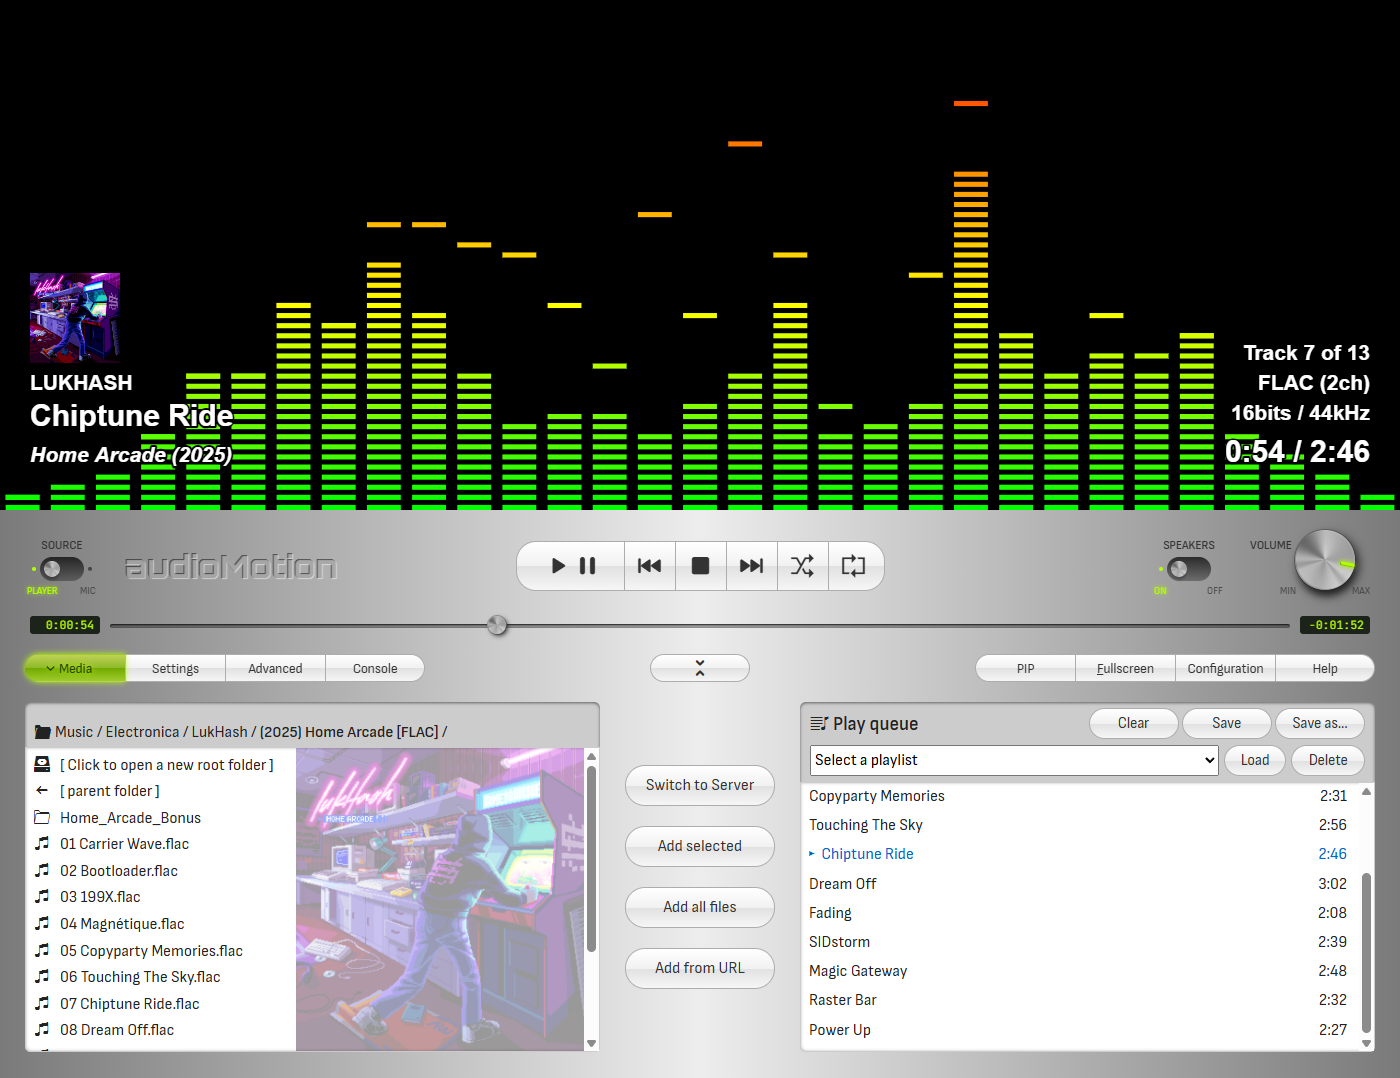
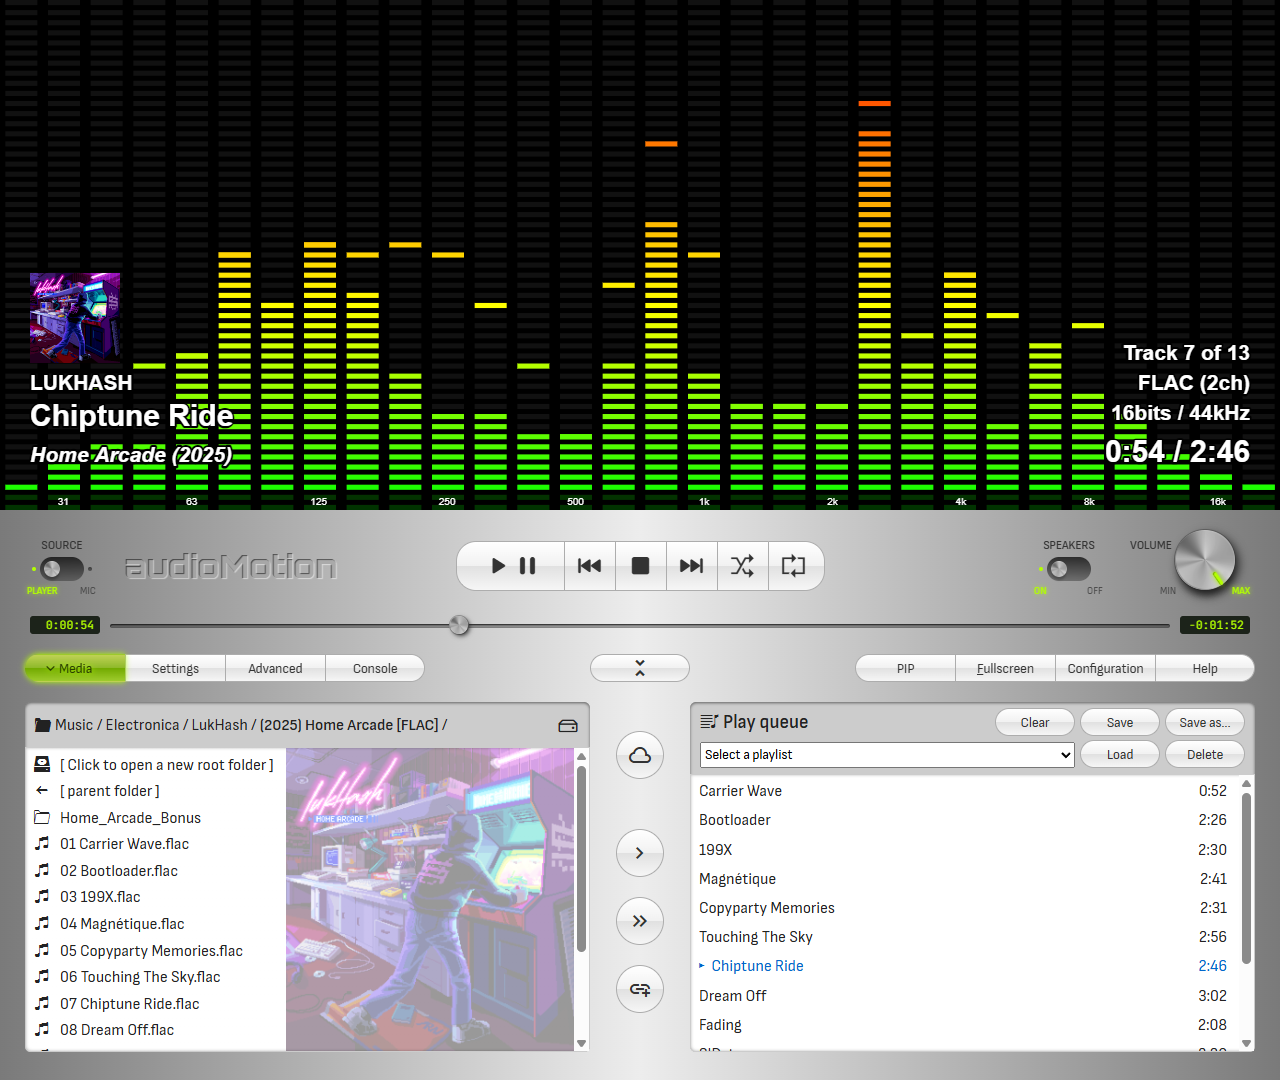
update users manual (wip)

Changed region(s): [[0.0, 0.0918, 1.0, 0.9796], [0.5, 0.1224, 0.5312, 0.1531], [0.375, 0.2755, 0.4062, 0.3061]]

diff --git a/docs/styles.css b/docs/styles.css
@@ -15,14 +15,14 @@
 	--sidebar-name-font-family: Orbitron, var(--base-font-family);
 	--sidebar-name-font-weight: 900;
 
-	--col-1: 2%;
-	--col-2: 21.4%;
+	--col-1: 2.3%;
+	--col-2: 21.5%;
 	--col-3: 40.8%;
 	--col-4: 60%;
-	--col-5: 79.5%;
-	--row-1: 14.331%;
-	--row-2: 29%;
-	--row-3: 44.586%;
+	--col-5: 79%;
+	--row-1: 15%;
+	--row-2: 30%;
+	--row-3: 45%;
 	--row-4: 61%;
 	--row-5: 76.5%;
 }
@@ -109,7 +109,7 @@ p ~ .table-wrapper table {
 
 .advanced-panel,
 .settings-panel {
-	aspect-ratio: 1400/440;
+	aspect-ratio: 1280/440;
 	background-size: contain;
 	line-height: 0;
 	margin: 0 auto;
@@ -221,7 +221,7 @@ p ~ .table-wrapper table {
 	--left: var(--col-4);
 	--top: var(--row-5);
 }
-.active.highlight-effects {
+.active.highlight-display {
 	--height: 28%;
 	--left: var(--col-5);
 	--top: var(--row-1);

diff --git a/docs/users-manual.md b/docs/users-manual.md
@@ -15,7 +15,7 @@ Toggles between using the app's own media player or your microphone as the audio
 If your sound card and operating system support *Stereo mix* mode, it should also appear as an input device option when you set the Source to **MIC.**<br>
 *Stereo mix* allows audioMotion to receive audio generated by any program running in your PC.
 
-?> When Source is set to **MIC**, output to the speakers is automatically turned off to prevent feedback loop. (See [Speakers and Volume](#speakers-and-volume))
+?> When Source is set to **MIC**, output to the speakers is automatically turned off to prevent feedback loop. If you're using headphones you can safely turn it back on, in order to hear the microphone audio. (See [Speakers and Volume](#speakers-and-volume))
 
 ### Player controls
 
@@ -40,10 +40,7 @@ You can drag the progress bar cursor to fast forward or rewind, or click anywher
 
 <img src="img/UI_volume.png" class="img-right">
 
-The **Speakers** switch enables or disables audio output to your speakers or headphones.
-
-When [Source](#source-selection) is switched to MIC, Speakers are automatically turned off to prevent audio feedback loop.
-If you're using headphones you can safely turn it on, in order to hear the input audio.
+The **Speakers** switch enables or disables audio output to your speakers or headphones. Setting it to OFF prevents feedback loops from the microphone, for example (see [Source selection](#source-selection)).
 
 Hover the mouse over the **Volume** knob and use the **mouse wheel** to turn the volume up or down (if the scroll direction doesn't feel natural to you, invert its behavior in Configuration > General settings).
 
@@ -91,23 +88,23 @@ The Media Panel is comprised of the **File Explorer** on the left side, the acti
 
 The **File Explorer** allows you to navigate through your media folders and files.
 
-!> Access to your device is provided to the app by the [File System Access API](https://caniuse.com/native-filesystem-api),
-which is currently **only implemented on Chromium-based browsers** (e.g., Chrome, Opera and Edge).
+!> Access to files in your device is provided by the [File System Access API](https://caniuse.com/native-filesystem-api),
+which is currently **implemented only on Chromium-based browsers** (e.g., Chrome, Opera and Edge).
 On **Brave browser** it needs to be enabled in `chrome://flags/#file-system-access-api` (copy and paste it in the address bar).
 
 **Double-click** a file to quickly add it to the play queue. It will also start playing if the player is currently stopped.
 
-Hold **Ctrl** and click to select multiple files, or **Shift** + click to select a range of files.
+Hold **Ctrl** and click to select multiple files, or **Shift** + click to select a range of contiguous files.
 
 You can then **drag and drop** the selected files into the play queue, or use the action buttons:
 
 | button | action |
 |:------:|:-------|
-**Switch to<br>Server / Device** | Switches between browsing folders on your local device or the songs hosted on the app server
-**Add selected**  | Add currently selected files in the file explorer to the play queue
-**Add all files** | Add all files in the current folder to the play queue
-**Add from URL**  | Load a remote audio file or stream from an URL
-**Open file**     | Open and play a single media file from your device<br>*(Only displayed on browsers with no support for the File System Access API)*
+![btn-toggle-mode](img/button-toggle-mode.gif) | Switch between browsing folders on your local device or hosted on the app server
+![btn-add-selected](img/button-add-selected.png)  | Add currently selected files in the file explorer to the play queue
+![btn-add-all-files](img/button-add-all-files.png) | Add all files in the current folder to the play queue
+![btn-add-url](img/button-add-url.png)  | Add a remote audio file or stream from an URL
+![btn-file-upload](img/button-file-upload.png)     | Open and play a single media file from your device<br>*(Only displayed if the browser/device does NOT support the File System Access API)*
 
 ?> The first image found in the current folder will be shown in the background of the file explorer, with precedence given to filenames containing the words *cover*,
 *folder* or *front* (in this order).
@@ -116,14 +113,15 @@ You can then **drag and drop** the selected files into the play queue, or use th
 
 **Double-click** a queued song to play it.
 
-Drag and drop songs to reorder them inside the queue. Hold **Ctrl** and click to select multiple files, or **Shift** + click to select a range.
-Press **Delete** (*Backspace* on Mac) to remove selected songs from the queue.
+Click a queue entry to select it (use Ctrl/Shift to select multiple files). Drag-and-drop selected entries to reorder them inside the queue.
+
+Press **Delete** (*Backspace* on Mac) to remove selected entries from the queue.
 
 Click the **Clear** button to clear the play queue.
 
-The contents of the play queue are automatically restored the next time you open audioMotion. You can disable this feature in [Config - General settings](#general-settings).
+The play queue is automatically restored the next time you open audioMotion. You can disable this feature in [Configuration > General settings](#general-settings).
 
-**You can also save the play queue to internal named playlists for quick access.**
+**You can save the play queue to internal playlists for quick access.**
 
 Saved playlists appear in the playlist selection box, as shown below:
 
@@ -186,7 +184,7 @@ Media files with detected subtitles will show a **[SUBS]** badge next to their n
 
 ![file-explorer-subs](img/file-explorer-subs.png)
 
-Configure the subtitles appearance in **[Config - Subtitles configuration](#subtitles-configuration).** Toggle the display of subtitles with the [**SUBTITLES** switch](#display).
+Configure the subtitles appearance in **[Configuration > Subtitles & Video](#subtitles-video).** Toggle the display of subtitles with the [**SUBTITLES** switch](#display).
 
 ?> Download synced lyrics for your songs with [LRCGET](https://github.com/tranxuanthang/lrcget) and use [Subtitle Edit](https://github.com/SubtitleEdit/subtitleedit)
 to convert them (and other popular subtitle formats) to .vtt.
@@ -212,7 +210,7 @@ Button            | Action
 **Load**          | Load the selected preset
 **Session start** | Restore settings as they were when you last launched (or reloaded) the app
 **Defaults**      | Resets all settings to their initial values, as in the first time you run audioMotion
-**Save / Manage** | Save, update, rename or delete user presets
+**Save / Manage** | Save, update, rename, delete and download user presets - see [**Save / Manage presets**](#save-manage-presets)
 
 Keyboard shortcuts available:
 
@@ -224,9 +222,23 @@ Key               | Action
 
 Your last used settings will be automatically restored the next time you open audioMotion.
 
-?> NOTE: presets save/restore the settings from both the **Settings** and **Advanced** panels!
+?> NOTE: presets affect the settings from both the **Settings** and **Advanced** panels!
 
-!> User presets are saved to the browser's storage and will only be accessible in the same browser they were saved. Backup your presets using the Export feature! <<<<<<<<<
+#### Save / Manage presets
+
+Click the <img src="img/button-save-manage.png" style="vertical-align: middle"> button to open the list of user presets, as seen below.
+
+![manage-presets](img/manage-presets.png)
+
+Click any empty slot to save the current settings to a new user preset, or click one of the saved presets to update it with the current settings.
+
+Button | Action
+-------|--------
+<img src="img/button-rename-preset.png" style="vertical-align: middle"> | Rename the corresponding preset
+<img src="img/button-download-preset.png" style="vertical-align: middle"> | Download the corresponding preset. Import downloaded presets via [**Advanced Panel > Import Settings**](#import-export-settings).
+<img src="img/button-delete-preset.png" style="vertical-align: middle"> | Delete the corresponding preset
+
+!> User presets are saved to the browser's internal storage and will only be accessible in the same browser they were saved. **Use the Download button to save backup copies of your presets!**
 
 ### Randomize
 
@@ -244,31 +256,29 @@ Selects the visualization mode. Keyboard shortcut: **M** / **Shift + M**.
 
 | Analyzer&nbsp;Mode | Description |
 |------|-------------|
-| **Bars** | When [Frequency Scale](#frequency-scale) is set to **LOG**, each bar represents the *n*th part of an octave, otherwise the frequency spectrum is divided in the number of bands selected by [Band Count](#band-count).
+| **Bars** | Displays bars of equal width, representing frequency bands, as selected by [**Band Count**](#band-count).
 | **FFT** | Displays individual discrete frequencies, as provided by the [FFT](https://en.wikipedia.org/wiki/Fast_Fourier_transform) computation.
-| **Graph** | Uses the FFT data points to create an area or line graph - the [line width](#line-width) and [fill opacity](#fill-opacity) can be customized in the Advanced panel.
+| **Graph** | Uses the FFT data points to create an area or line graph - [**Line Width**](#line-width) and [**Fill Opacity**](#fill-opacity) can be customized in the Advanced panel.
 
 ### Band Count
 
 <div class="settings-panel highlight-band-count"></div>
 
-How many frequency bands should be displayed in **Bars** [analyzer mode](#analyzer-mode), or what octave fraction should be used for each band.
+How many frequency bands should be displayed in [**Bars** mode](#analyzer-mode), or how much of an octave should each band represent.
 
-When [Frequency Scale](#frequency-scale) is set to **Log**, this setting defines how much of an octave is covered by each bar.
-Otherwise, the frequency spectrum is divided in a fixed amount of bars, with the bandwidth of each bar varying according to the selected frequency scale.
-
-See also [X-Axis Labels](#x-axis-labels).
+When [Frequency Scale](#frequency-scale) is set to **Log**, this setting defines which fraction of an octave is included in each bar.
+Otherwise, the frequency spectrum is divided into a fixed amount of bars, with the bandwidth of each bar varying according to the selected frequency scale.
 
 ### Bar Color Mode
 
 <div class="settings-panel highlight-color-mode"></div>
 
-Desired method for coloring the analyzer bars. This property has no effect in **Graph** [analyzer mode](#analyzer-mode).
+Desired method for coloring the analyzer bars. This setting has no effect in [**Graph** mode](#analyzer-mode).
 
 | Color&nbsp;Mode | Description | Preview ('prism' gradient)
 |-----------------|-------------|----------------------------
-| **Gradient**    | Analyzer bars are painted with the currently selected [Gradients](#gradients). | ![prism](img/gradient-prism.png)
-| **Index**       | Each analyzer bar is painted with a **single color** from the selected gradients, starting with the first color applied to the first bar, and so on, cycling through the available colors. | ![prism-bar-index](img/gradient-prism-bar-index.png)
+| **Gradient**    | Analyzer bars are painted with the currently selected [Gradient](#gradients). | ![prism](img/gradient-prism.png)
+| **Index**       | Each analyzer bar is painted with a **single color** from the selected gradient, starting with the first color applied to the first bar, and so on, cycling through the available colors. | ![prism-bar-index](img/gradient-prism-bar-index.png)
 | **Level**       | Colors from the selected gradient are used to paint each bar, according to its current level (amplitude). | ![prism-bar-level](img/gradient-prism-bar-level.png)
 
 ### Sensitivity
@@ -412,7 +422,7 @@ X-Axis Labels | Description
 --------------|-------------
 Off           | Do not show labels
 Freqs         | Show frequency values
-Notes         | Show musical notes - works best with [Frequency Scale](#frequency-scale): **Log**, [Octave Bands](#octave-bands): **Tempered** and [Band Count](#band-count): **1/12th octave**.
+Notes         | Show musical notes - works best with [**Frequency Scale**](#frequency-scale): *Log*, [**Octave Bands**](#octave-bands): *Tempered* and [**Band Count**](#band-count): *1/12th octave*.
 
 ### Y-Axis Labels
 
@@ -458,25 +468,21 @@ Selects a horizontal mirroring effect to the left (low frequencies at the center
 
 <div class="advanced-panel highlight-import-export"></div>
 
+Click **Export** to download all current settings in the **Settings** and **Advanced** panels as a JSON file. Use it to [share](https://github.com/hvianna/audioMotion.js/discussions/categories/presets) and store backup copies of your favorite settings.
 
+Click **Import** to load settings from an external JSON file. Please note that this will overwrite all current settings in both the **Settings** and **Advanced** panels.
+
+You can also import [downloaded presets](#manage-presets) this way.
 
 ### Bar spacing
 
-<div class="settings-panel highlight-bar-spacing"></div>
+<div class="advanced-panel highlight-bar-spacing"></div>
 
-This setting is effective only when an [octave bands mode](#analyzer-mode) is selected. Avaliable options are:
-
-| Bar Spacing | Description |
-|-------------|-------------|
-**MIN** | ~1px spacing between analyzer bars
-**10**  | 10% spacing, 90% bar width (default)
-**25**  | 25% spacing, 75% bar width
-**50**  | 50% spacing, 50% bar width
-**75**  | 75% spacing, 25% bar width
+The amount of spacing between analyzer bars. This setting is only effective in [Bars mode](#analyzer-mode).
 
 ### Fill Opacity
 
-<div class="settings-panel highlight-fill-opacity"></div>
+<div class="advanced-panel highlight-fill-opacity"></div>
 
 Transparency of the graph area or bar fill. The [ALPHA](#effects) switch, when active, has precedence over the Fill Opacity (for Bars mode only).
 
@@ -486,7 +492,7 @@ Effective only for **Graph** [analyzer mode](#analyzer-mode) or when [OUTLINE](#
 
 ### Line Width
 
-<div class="settings-panel highlight-line-width"></div>
+<div class="advanced-panel highlight-line-width"></div>
 
 Thickness of the graph line or outline stroke.
 
